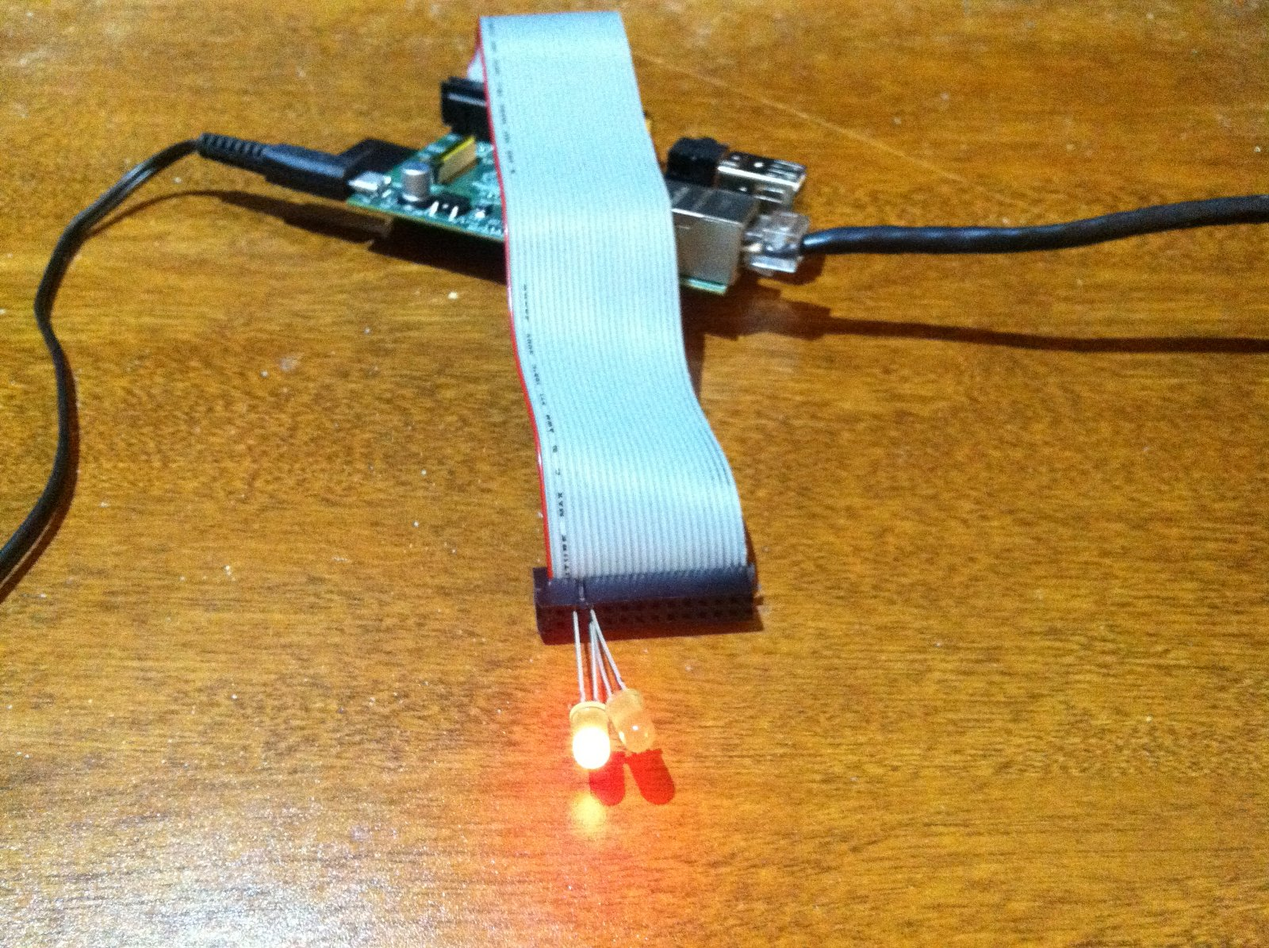
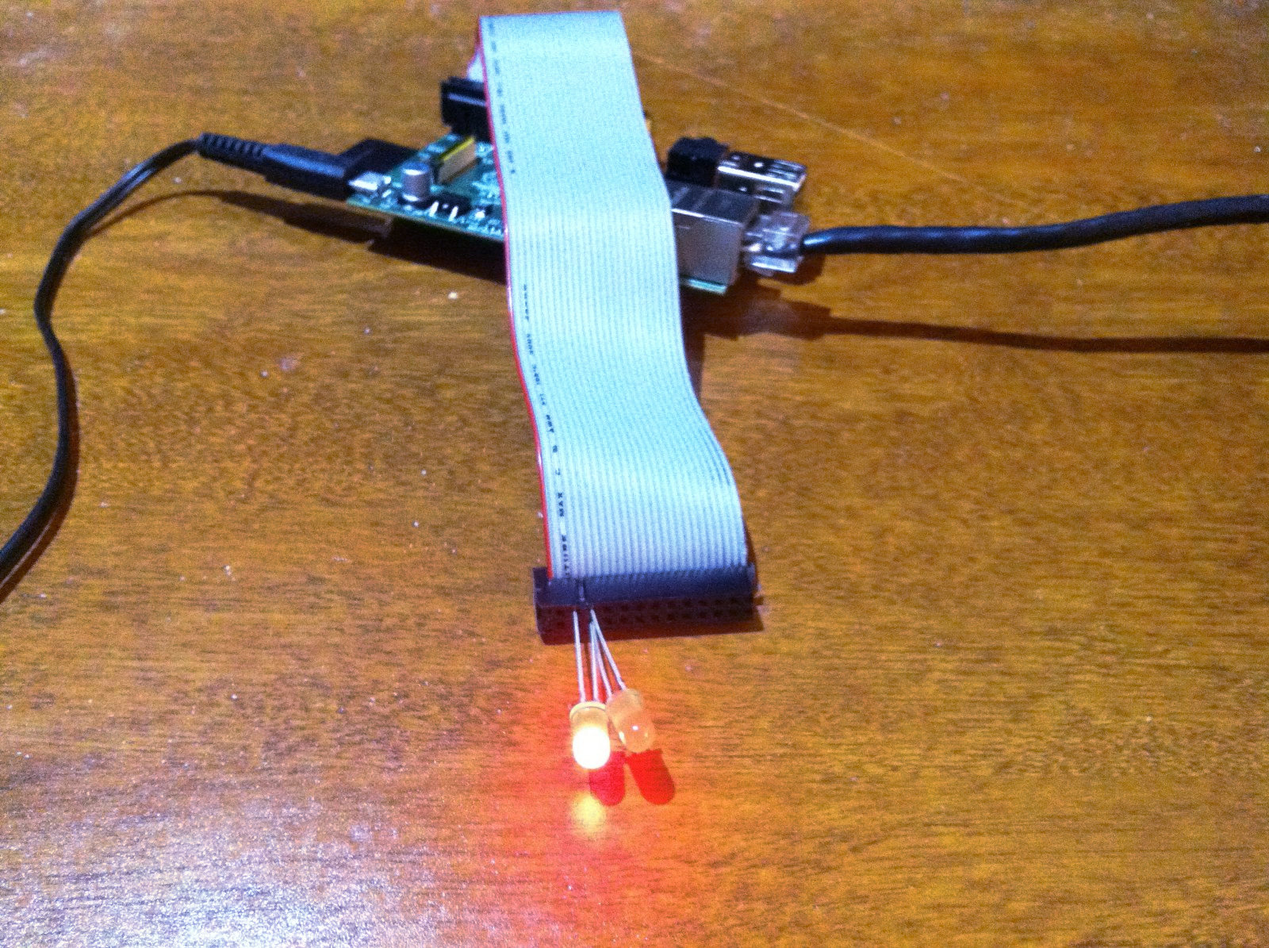
fixed the white balance + added an author page

diff --git a/src/janvier-2013/cable-gpio.rst b/src/janvier-2013/cable-gpio.rst
@@ -116,6 +116,7 @@ En suivant le diagramme ci dessous:
 - La patte longue de la DEL verte au troisième trou du cote droit
 
 .. figure:: 2leds.jpg
+   :scale: 50
 
 ----
 
